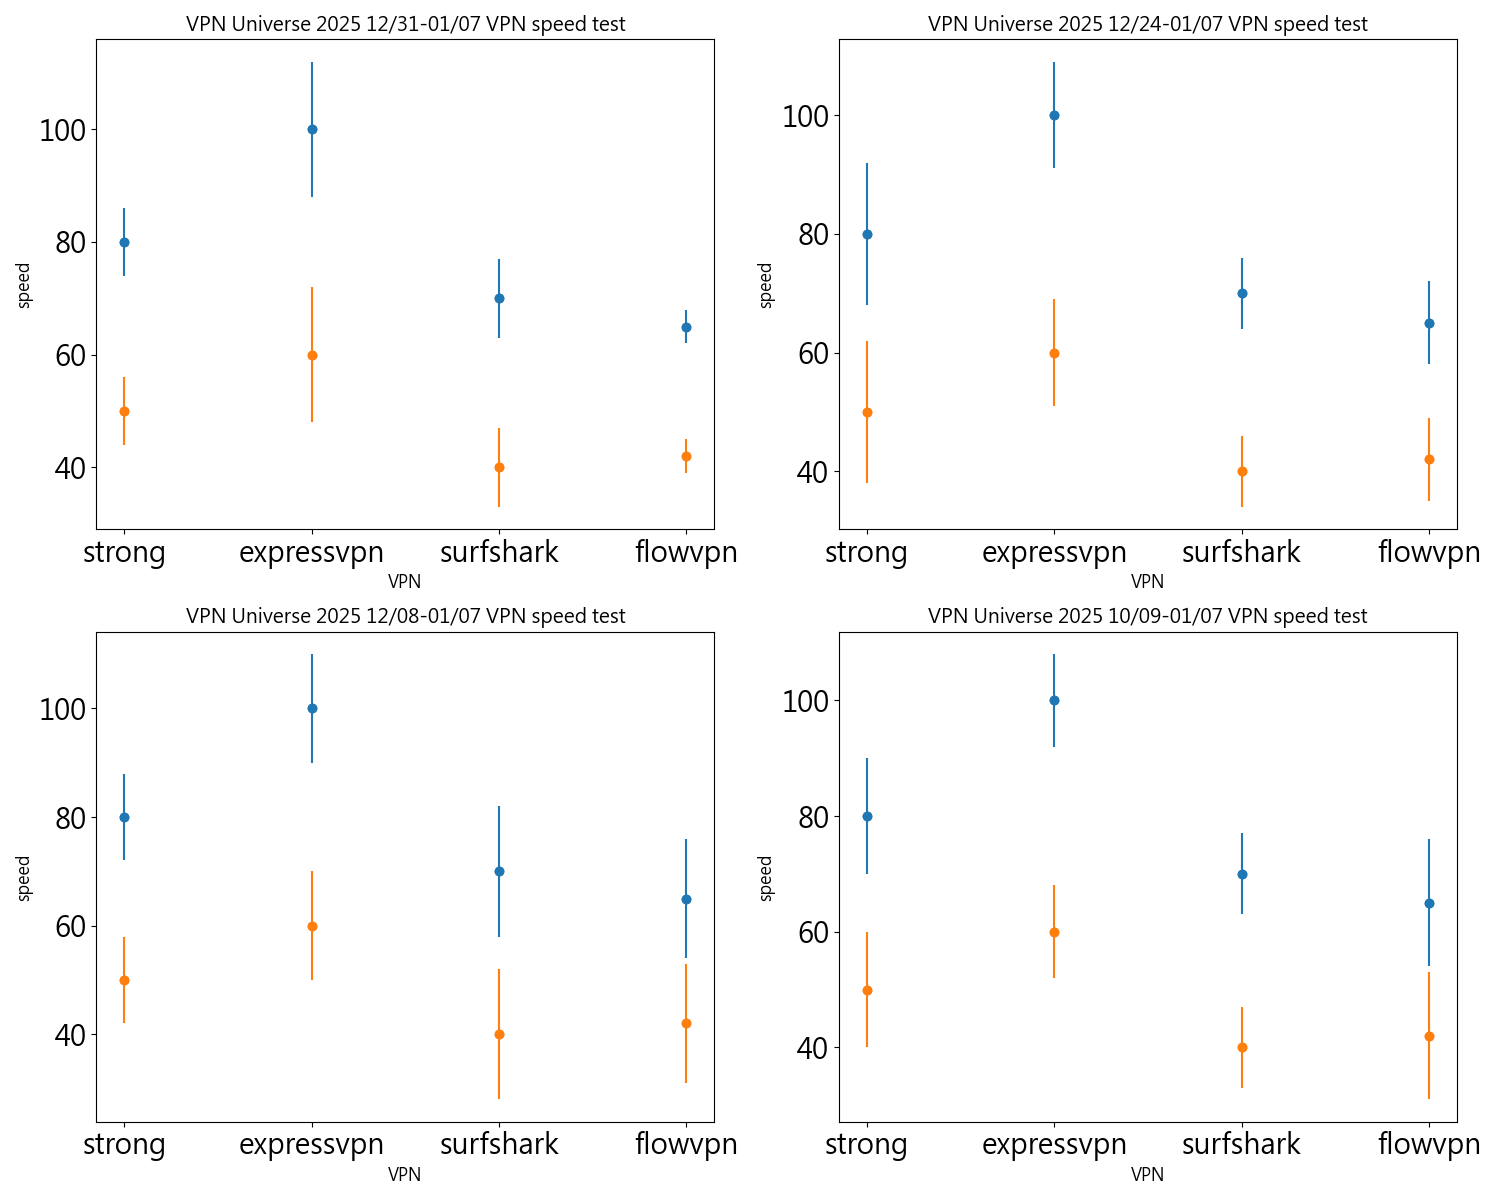
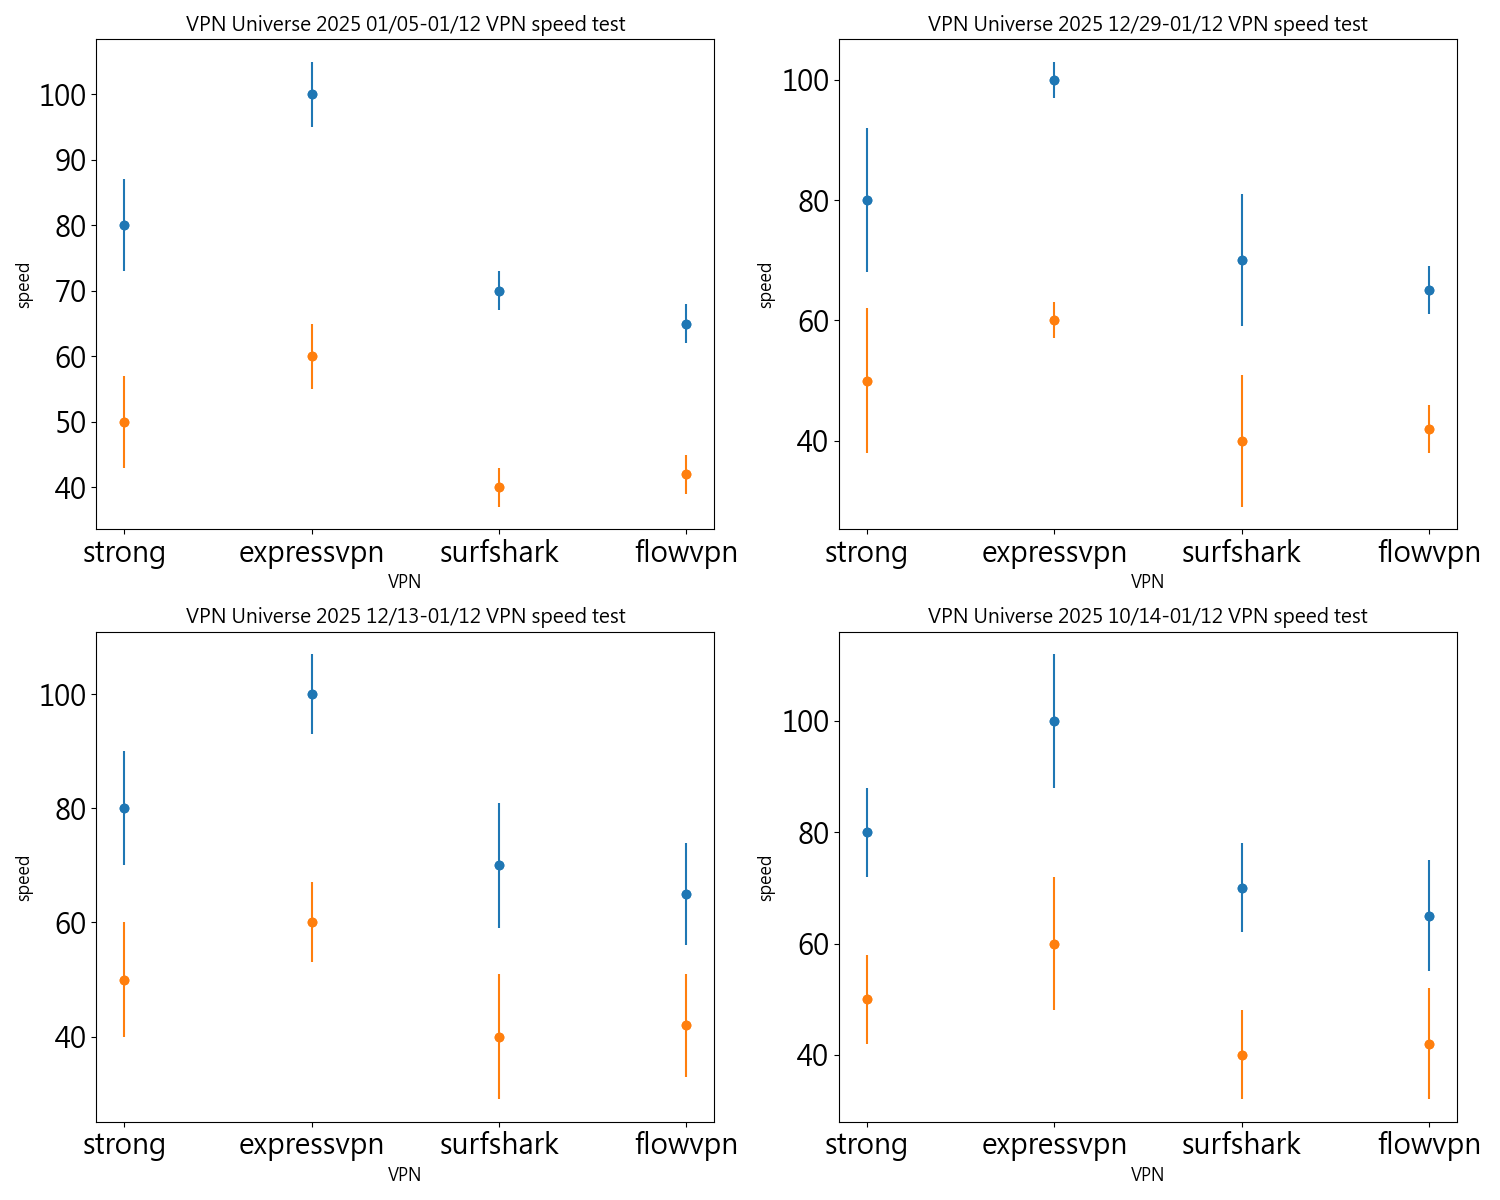
u

diff --git a/README.md b/README.md
@@ -1,8 +1,11 @@
-# Best VPNs for India - Comprehensive Recommendations (Updated: January 07, 2025)
+# Best VPNs for India - Comprehensive Recommendations (Updated: January 12, 2025)
 
 ## If you enjoy this guide, consider starring this repository and sharing it with others to help spread awareness about internet privacy and freedom. Let's work together for a more secure and open web!
 
 ### Quick Overview: Pricing and Performance of the Best VPNs for India
+
+
+<img src="./image/vpn_intro_pic.jpg" alt="VPN Speed Test India" width="700"/>
 
 Here’s a summary of the top VPN options for Indian users, including the best subscription plans, pricing, and standout features:
 

diff --git a/index.md b/index.md
@@ -1,4 +1,4 @@
-# Best VPNs for India - Comprehensive Recommendations (Updated: January 07, 2025)
+# Best VPNs for India - Comprehensive Recommendations (Updated: January 12, 2025)
 
 ## If you enjoy this guide, consider starring this repository and sharing it with others to help spread awareness about internet privacy and freedom. Let's work together for a more secure and open web!
 
